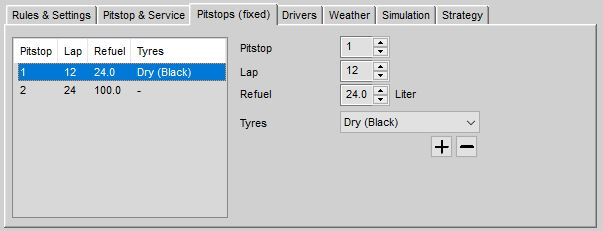
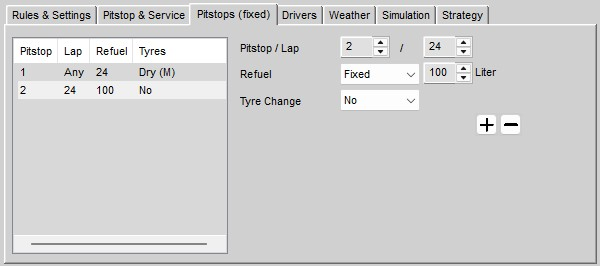
Extended fixed pitstops in strategy Part 3

Changed region(s): [[0.0, 0.0, 1.0, 1.0]]

diff --git a/Docs/Strategy Workbench.md b/Docs/Strategy Workbench.md
@@ -371,7 +371,7 @@ In very rare cases it might be beneficial to define one or more fixed pitstops b
 
 ![](https://github.com/SeriousOldMan/Simulator-Controller/blob/main/Docs/Images/Strategy%20Settings%207.JPG)
 
-Enter the number of the pitstop that should be fixed at the specified lap, the amount of fuel to be added and choose whether you want to change tyres at this pitstop.
+Enter the number of the pitstop that should be fixed. You can also specify, that this pitstop should carried out at a specific lap and you can define rules for refueling and/or tyre change.
 
 Important: The strategy simulation tries to compensate for the intervention as best as possible. But there are limits. For example, it is not checked whether the available fuel in the stint before a fixed pitstop is sufficient to extent this stint up to the fixed lap. Also, any additional restrictions like stint timers, tyre life, pitstop rules, and so on, might be ignored as well. Therefore it is possible that the simulation will come up with an invalid strategy, which, even worse, might not be detected correctly.
 
